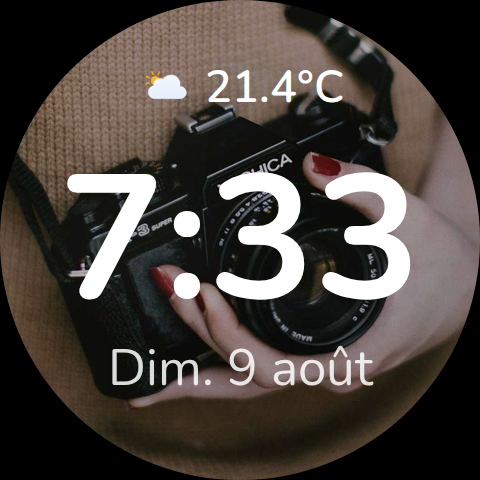
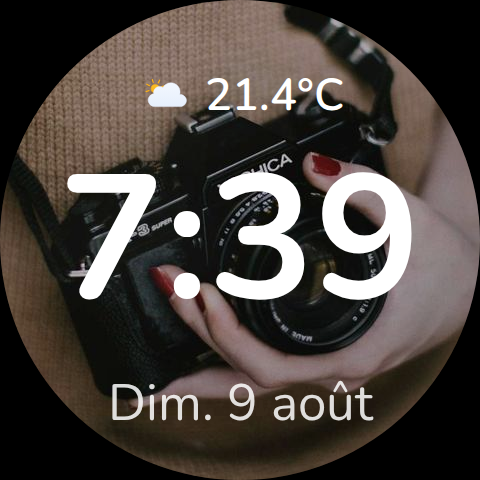
1.0.5: gap horloge/date symétrique, météo plus en retrait
Espace horloge→date = espace date→bas d'écran (calc() basé sur
--_clock-size/--_date-size, vérifié par mesure exacte : 18px des deux
côtés sur 960x480) — la date était perçue trop basse par rapport à
l'horloge. Bloc météo repoussé plus loin du coin/bord (paysage et
round).

diff --git a/dist/echo-home-card.js b/dist/echo-home-card.js
@@ -48,7 +48,7 @@ const ye = (r) => new ue(typeof r == "string" ? r : r + "", void 0, F), be = (r,
  * Copyright 2017 Google LLC
  * SPDX-License-Identifier: BSD-3-Clause
  */
-const { is: Ae, defineProperty: Ee, getOwnPropertyDescriptor: xe, getOwnPropertyNames: Se, getOwnPropertySymbols: ke, getPrototypeOf: Ce } = Object, f = globalThis, G = f.trustedTypes, ze = G ? G.emptyScript : "", D = f.reactiveElementPolyfillSupport, S = (r, e) => r, W = { toAttribute(r, e) {
+const { is: Ae, defineProperty: Ee, getOwnPropertyDescriptor: xe, getOwnPropertyNames: Se, getOwnPropertySymbols: Ce, getPrototypeOf: ke } = Object, f = globalThis, G = f.trustedTypes, ze = G ? G.emptyScript : "", D = f.reactiveElementPolyfillSupport, S = (r, e) => r, W = { toAttribute(r, e) {
   switch (e) {
     case Boolean:
       r = r ? ze : null;
@@ -111,13 +111,13 @@ let w = class extends HTMLElement {
   }
   static _$Ei() {
     if (this.hasOwnProperty(S("elementProperties"))) return;
-    const e = Ce(this);
+    const e = ke(this);
     e.finalize(), e.l !== void 0 && (this.l = [...e.l]), this.elementProperties = new Map(e.elementProperties);
   }
   static finalize() {
     if (this.hasOwnProperty(S("finalized"))) return;
     if (this.finalized = !0, this._$Ei(), this.hasOwnProperty(S("properties"))) {
-      const t = this.properties, s = [...Se(t), ...ke(t)];
+      const t = this.properties, s = [...Se(t), ...Ce(t)];
       for (const i of s) this.createProperty(i, t[i]);
     }
     const e = this[Symbol.metadata];
@@ -294,7 +294,7 @@ w.elementStyles = [], w.shadowRootOptions = { mode: "open" }, w[S("elementProper
  * Copyright 2017 Google LLC
  * SPDX-License-Identifier: BSD-3-Clause
  */
-const k = globalThis, Q = (r) => r, M = k.trustedTypes, Y = M ? M.createPolicy("lit-html", { createHTML: (r) => r }) : void 0, pe = "$lit$", m = `lit$${Math.random().toFixed(9).slice(2)}$`, _e = "?" + m, Pe = `<${_e}>`, y = document, z = () => y.createComment(""), P = (r) => r === null || typeof r != "object" && typeof r != "function", J = Array.isArray, Ue = (r) => J(r) || typeof (r == null ? void 0 : r[Symbol.iterator]) == "function", I = `[ 	
+const C = globalThis, Q = (r) => r, M = C.trustedTypes, Y = M ? M.createPolicy("lit-html", { createHTML: (r) => r }) : void 0, pe = "$lit$", m = `lit$${Math.random().toFixed(9).slice(2)}$`, _e = "?" + m, Pe = `<${_e}>`, y = document, z = () => y.createComment(""), P = (r) => r === null || typeof r != "object" && typeof r != "function", J = Array.isArray, Ue = (r) => J(r) || typeof (r == null ? void 0 : r[Symbol.iterator]) == "function", I = `[ 	
 \f\r]`, x = /<(?:(!--|\/[^a-zA-Z])|(\/?[a-zA-Z][^>\s]*)|(\/?$))/g, ee = /-->/g, te = />/g, $ = RegExp(`>|${I}(?:([^\\s"'>=/]+)(${I}*=${I}*(?:[^ 	
 \f\r"'\`<>=]|("|')|))|$)`, "g"), se = /'/g, ie = /"/g, me = /^(?:script|style|textarea|title)$/i, Te = (r) => (e, ...t) => ({ _$litType$: r, strings: e, values: t }), N = Te(1), A = Symbol.for("lit-noChange"), d = Symbol.for("lit-nothing"), re = /* @__PURE__ */ new WeakMap(), g = y.createTreeWalker(y, 129);
 function fe(r, e) {
@@ -517,9 +517,9 @@ class qe {
     E(this, e);
   }
 }
-const j = k.litHtmlPolyfillSupport;
+const L = C.litHtmlPolyfillSupport;
 var le;
-j == null || j(U, T), ((le = k.litHtmlVersions) != null ? le : k.litHtmlVersions = []).push("3.3.3");
+L == null || L(U, T), ((le = C.litHtmlVersions) != null ? le : C.litHtmlVersions = []).push("3.3.3");
 const De = (r, e, t) => {
   var n, o;
   const s = (n = t == null ? void 0 : t.renderBefore) != null ? n : e;
@@ -536,7 +536,7 @@ const De = (r, e, t) => {
  * SPDX-License-Identifier: BSD-3-Clause
  */
 const v = globalThis;
-class C extends w {
+class k extends w {
   constructor() {
     super(...arguments), this.renderOptions = { host: this }, this._$Do = void 0;
   }
@@ -562,9 +562,9 @@ class C extends w {
   }
 }
 var ce;
-C._$litElement$ = !0, C.finalized = !0, (ce = v.litElementHydrateSupport) == null || ce.call(v, { LitElement: C });
-const L = v.litElementPolyfillSupport;
-L == null || L({ LitElement: C });
+k._$litElement$ = !0, k.finalized = !0, (ce = v.litElementHydrateSupport) == null || ce.call(v, { LitElement: k });
+const j = v.litElementPolyfillSupport;
+j == null || j({ LitElement: k });
 var he;
 ((he = v.litElementVersions) != null ? he : v.litElementVersions = []).push("4.2.2");
 const $e = "echo-home-card", Ie = "https://cdn.jsdelivr.net/npm/@meteocons/svg", b = {
@@ -614,7 +614,7 @@ const $e = "echo-home-card", Ie = "https://cdn.jsdelivr.net/npm/@meteocons/svg",
   zoom: 1
   // facteur d'échelle manuel (CSS zoom), filet de rattrapage si
   // les tailles fluides ne suivent pas correctement sur un appareil donné
-}, je = {
+}, Le = {
   "clear-night": "clear-night",
   cloudy: "cloudy",
   exceptional: "not-available",
@@ -630,8 +630,8 @@ const $e = "echo-home-card", Ie = "https://cdn.jsdelivr.net/npm/@meteocons/svg",
   windy: "wind",
   "windy-variant": "wind"
 };
-function Le(r, e) {
-  return r === "partlycloudy" ? e ? "partly-cloudy-night" : "partly-cloudy-day" : r === "sunny" && e ? "clear-night" : je[r] || "not-available";
+function je(r, e) {
+  return r === "partlycloudy" ? e ? "partly-cloudy-night" : "partly-cloudy-day" : r === "sunny" && e ? "clear-night" : Le[r] || "not-available";
 }
 function We(r, e) {
   if (e != null && e.base_url)
@@ -659,7 +659,7 @@ function Fe(r, e) {
     `component.weather.entity_component._.state.${e}`
   ) || e;
 }
-class V extends C {
+class V extends k {
   // Aucune entité n'est requise : sans rien configurer, la carte reste une
   // horloge plein écran sur fond dégradé — satellite_entity et
   // weather_entity ajoutent respectivement le fond dynamique/mode nuit et
@@ -773,7 +773,7 @@ class V extends C {
     `;
   }
   _renderWeather(e) {
-    const t = Le(e.state, this._isDarkOutside()), s = We(t, this._config.icons), i = Number(e.attributes.temperature).toFixed(1), n = e.attributes.temperature_unit || "°C", o = Fe(this._hass, e.state), l = this._weatherClickable();
+    const t = je(e.state, this._isDarkOutside()), s = We(t, this._config.icons), i = Number(e.attributes.temperature).toFixed(1), n = e.attributes.temperature_unit || "°C", o = Fe(this._hass, e.state), l = this._weatherClickable();
     return N`
       <div
         class="weather ${l ? "clickable" : ""}"
@@ -912,16 +912,22 @@ q(V, "properties", {
 
     .date {
       position: absolute;
-      top: 50%;
+      /* Calée pour que l'espace horloge→date soit égal à l'espace
+         date→bas d'écran, quelle que soit la taille de l'horloge/date
+         (donc correct aussi en mode round où elles sont redéfinies).
+         Avec H la hauteur de la carte (100%, d'où le calc en % — top
+         est relatif au conteneur, contrairement à transform), C
+         --_clock-size et D --_date-size : le bas de l'horloge est à
+         H/2 + C/2, on veut top_date + D + gap = H avec
+         top_date = H/2 + C/2 + gap, ce qui donne
+         top_date = 3H/4 + C/4 - D/2. */
+      top: calc(75% + var(--_clock-size) / 4 - var(--_date-size) / 2);
       left: 50%;
-      /* line-height: 1 est nécessaire ici, pas que par cohérence avec
-         .clock : le line-height par défaut du navigateur (~1.2) ajoutait
-         un espace vide sous le texte assez grand pour pousser la date
-         hors de l'écran (repéré par mesure exacte du rendu, pas à l'œil
-         — le débordement se clippe silencieusement via overflow:hidden
-         sur .card, sans erreur visible). */
+      transform: translateX(-50%);
+      /* line-height: 1 : le line-height par défaut du navigateur (~1.2)
+         fausserait le calcul ci-dessus (basé sur --_date-size comme
+         hauteur réelle de la boîte). */
       line-height: 1;
-      transform: translate(-50%, calc(var(--_clock-size) * 0.5 + 0.3em));
       font-size: var(--_date-size);
       color: var(--_text-color);
       opacity: 0.85;
@@ -930,8 +936,8 @@ q(V, "properties", {
 
     .weather {
       position: absolute;
-      top: clamp(12px, 4vh, 28px);
-      left: clamp(12px, 5%, 32px);
+      top: clamp(20px, 6vh, 40px);
+      left: clamp(20px, 7%, 44px);
       z-index: 1;
       display: flex;
       align-items: center;
@@ -943,7 +949,7 @@ q(V, "properties", {
        en haut à la place. */
     .card.round .weather {
       left: 50%;
-      top: clamp(28px, 15%, 56px);
+      top: clamp(36px, 18%, 64px);
       transform: translateX(-50%);
     }
 

diff --git a/src/echo-home-card.js b/src/echo-home-card.js
@@ -364,16 +364,22 @@ class EchoHomeCard extends LitElement {
 
     .date {
       position: absolute;
-      top: 50%;
+      /* Calée pour que l'espace horloge→date soit égal à l'espace
+         date→bas d'écran, quelle que soit la taille de l'horloge/date
+         (donc correct aussi en mode round où elles sont redéfinies).
+         Avec H la hauteur de la carte (100%, d'où le calc en % — top
+         est relatif au conteneur, contrairement à transform), C
+         --_clock-size et D --_date-size : le bas de l'horloge est à
+         H/2 + C/2, on veut top_date + D + gap = H avec
+         top_date = H/2 + C/2 + gap, ce qui donne
+         top_date = 3H/4 + C/4 - D/2. */
+      top: calc(75% + var(--_clock-size) / 4 - var(--_date-size) / 2);
       left: 50%;
-      /* line-height: 1 est nécessaire ici, pas que par cohérence avec
-         .clock : le line-height par défaut du navigateur (~1.2) ajoutait
-         un espace vide sous le texte assez grand pour pousser la date
-         hors de l'écran (repéré par mesure exacte du rendu, pas à l'œil
-         — le débordement se clippe silencieusement via overflow:hidden
-         sur .card, sans erreur visible). */
+      transform: translateX(-50%);
+      /* line-height: 1 : le line-height par défaut du navigateur (~1.2)
+         fausserait le calcul ci-dessus (basé sur --_date-size comme
+         hauteur réelle de la boîte). */
       line-height: 1;
-      transform: translate(-50%, calc(var(--_clock-size) * 0.5 + 0.3em));
       font-size: var(--_date-size);
       color: var(--_text-color);
       opacity: 0.85;
@@ -382,8 +388,8 @@ class EchoHomeCard extends LitElement {
 
     .weather {
       position: absolute;
-      top: clamp(12px, 4vh, 28px);
-      left: clamp(12px, 5%, 32px);
+      top: clamp(20px, 6vh, 40px);
+      left: clamp(20px, 7%, 44px);
       z-index: 1;
       display: flex;
       align-items: center;
@@ -395,7 +401,7 @@ class EchoHomeCard extends LitElement {
        en haut à la place. */
     .card.round .weather {
       left: 50%;
-      top: clamp(28px, 15%, 56px);
+      top: clamp(36px, 18%, 64px);
       transform: translateX(-50%);
     }
 

diff --git a/CHANGELOG.md b/CHANGELOG.md
@@ -1,5 +1,15 @@
 # Changelog
 
+## 1.0.5
+
+- Espace horloge→date désormais égal à l'espace date→bas d'écran (18px
+  de chaque côté sur 960x480, vérifié par mesure exacte) — la date
+  était trop basse par rapport à l'horloge. Calculé via `--_clock-size`
+  et `--_date-size` plutôt qu'une valeur fixe, donc correct aussi en
+  mode round.
+- Bloc météo davantage en retrait du coin haut-gauche (paysage) / du
+  bord haut (round).
+
 ## 1.0.4
 
 - La 1.0.3 centrait le *groupe* horloge+date (flex column), pas
